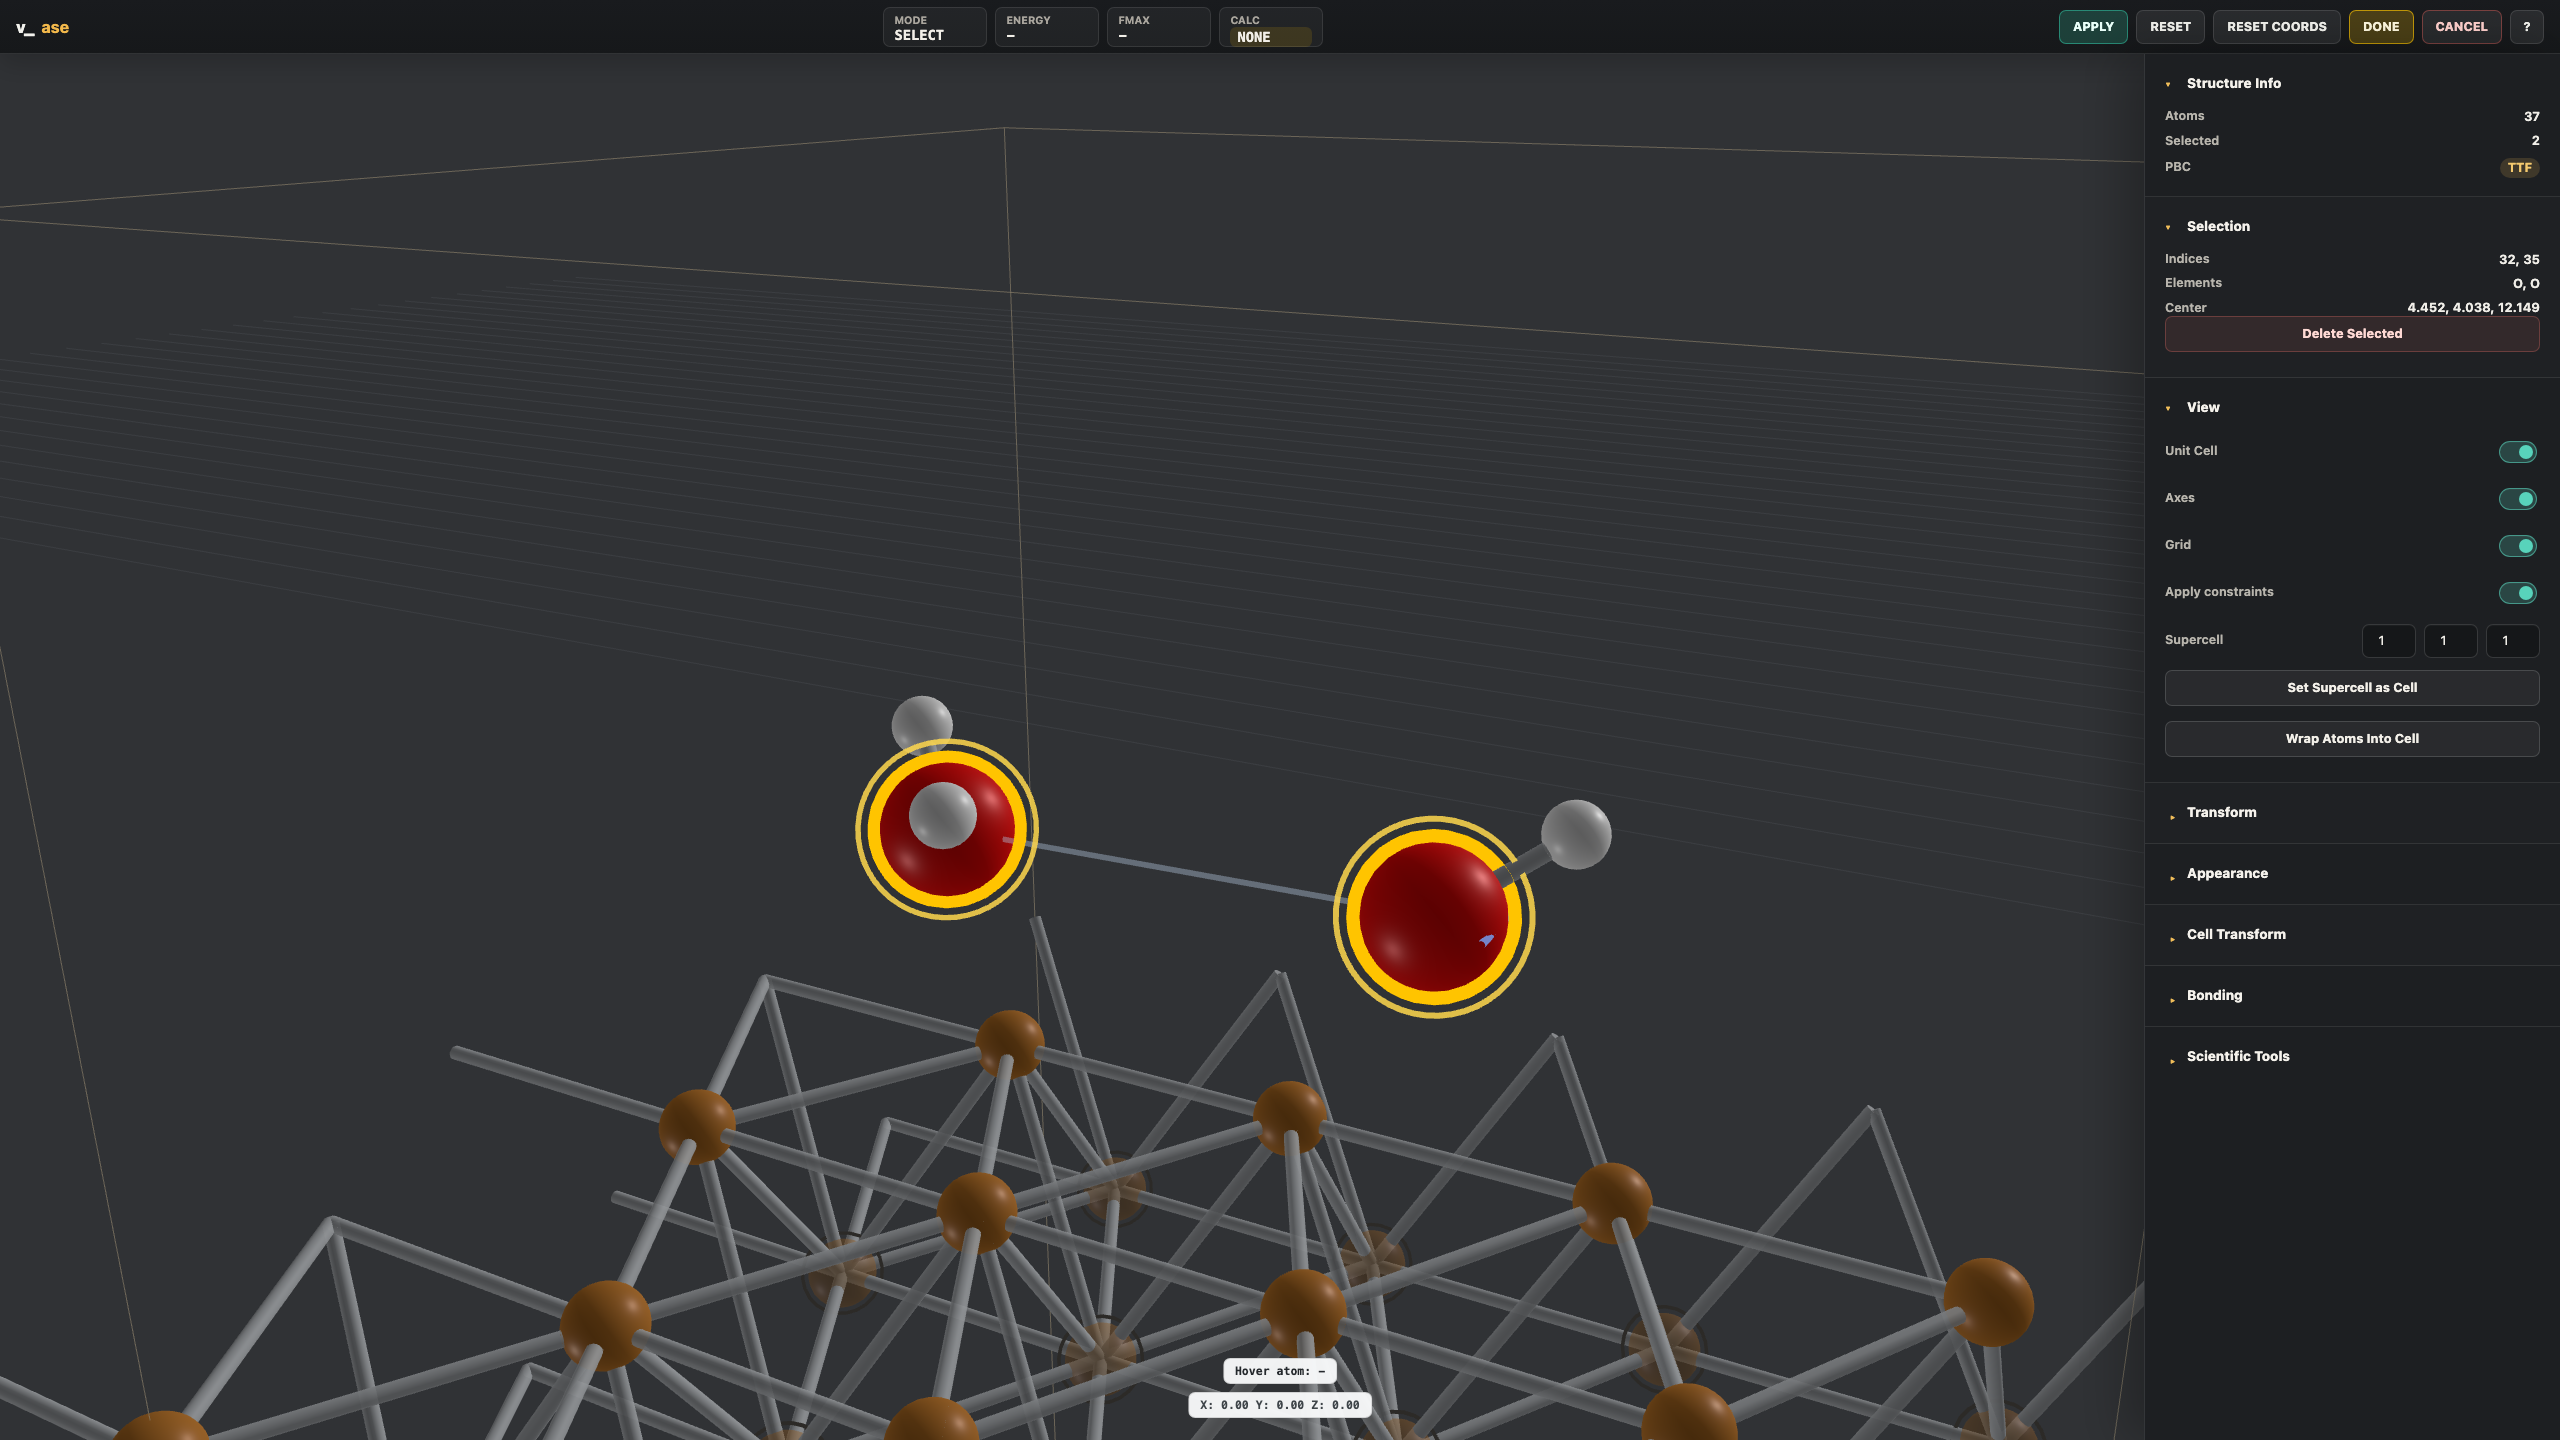
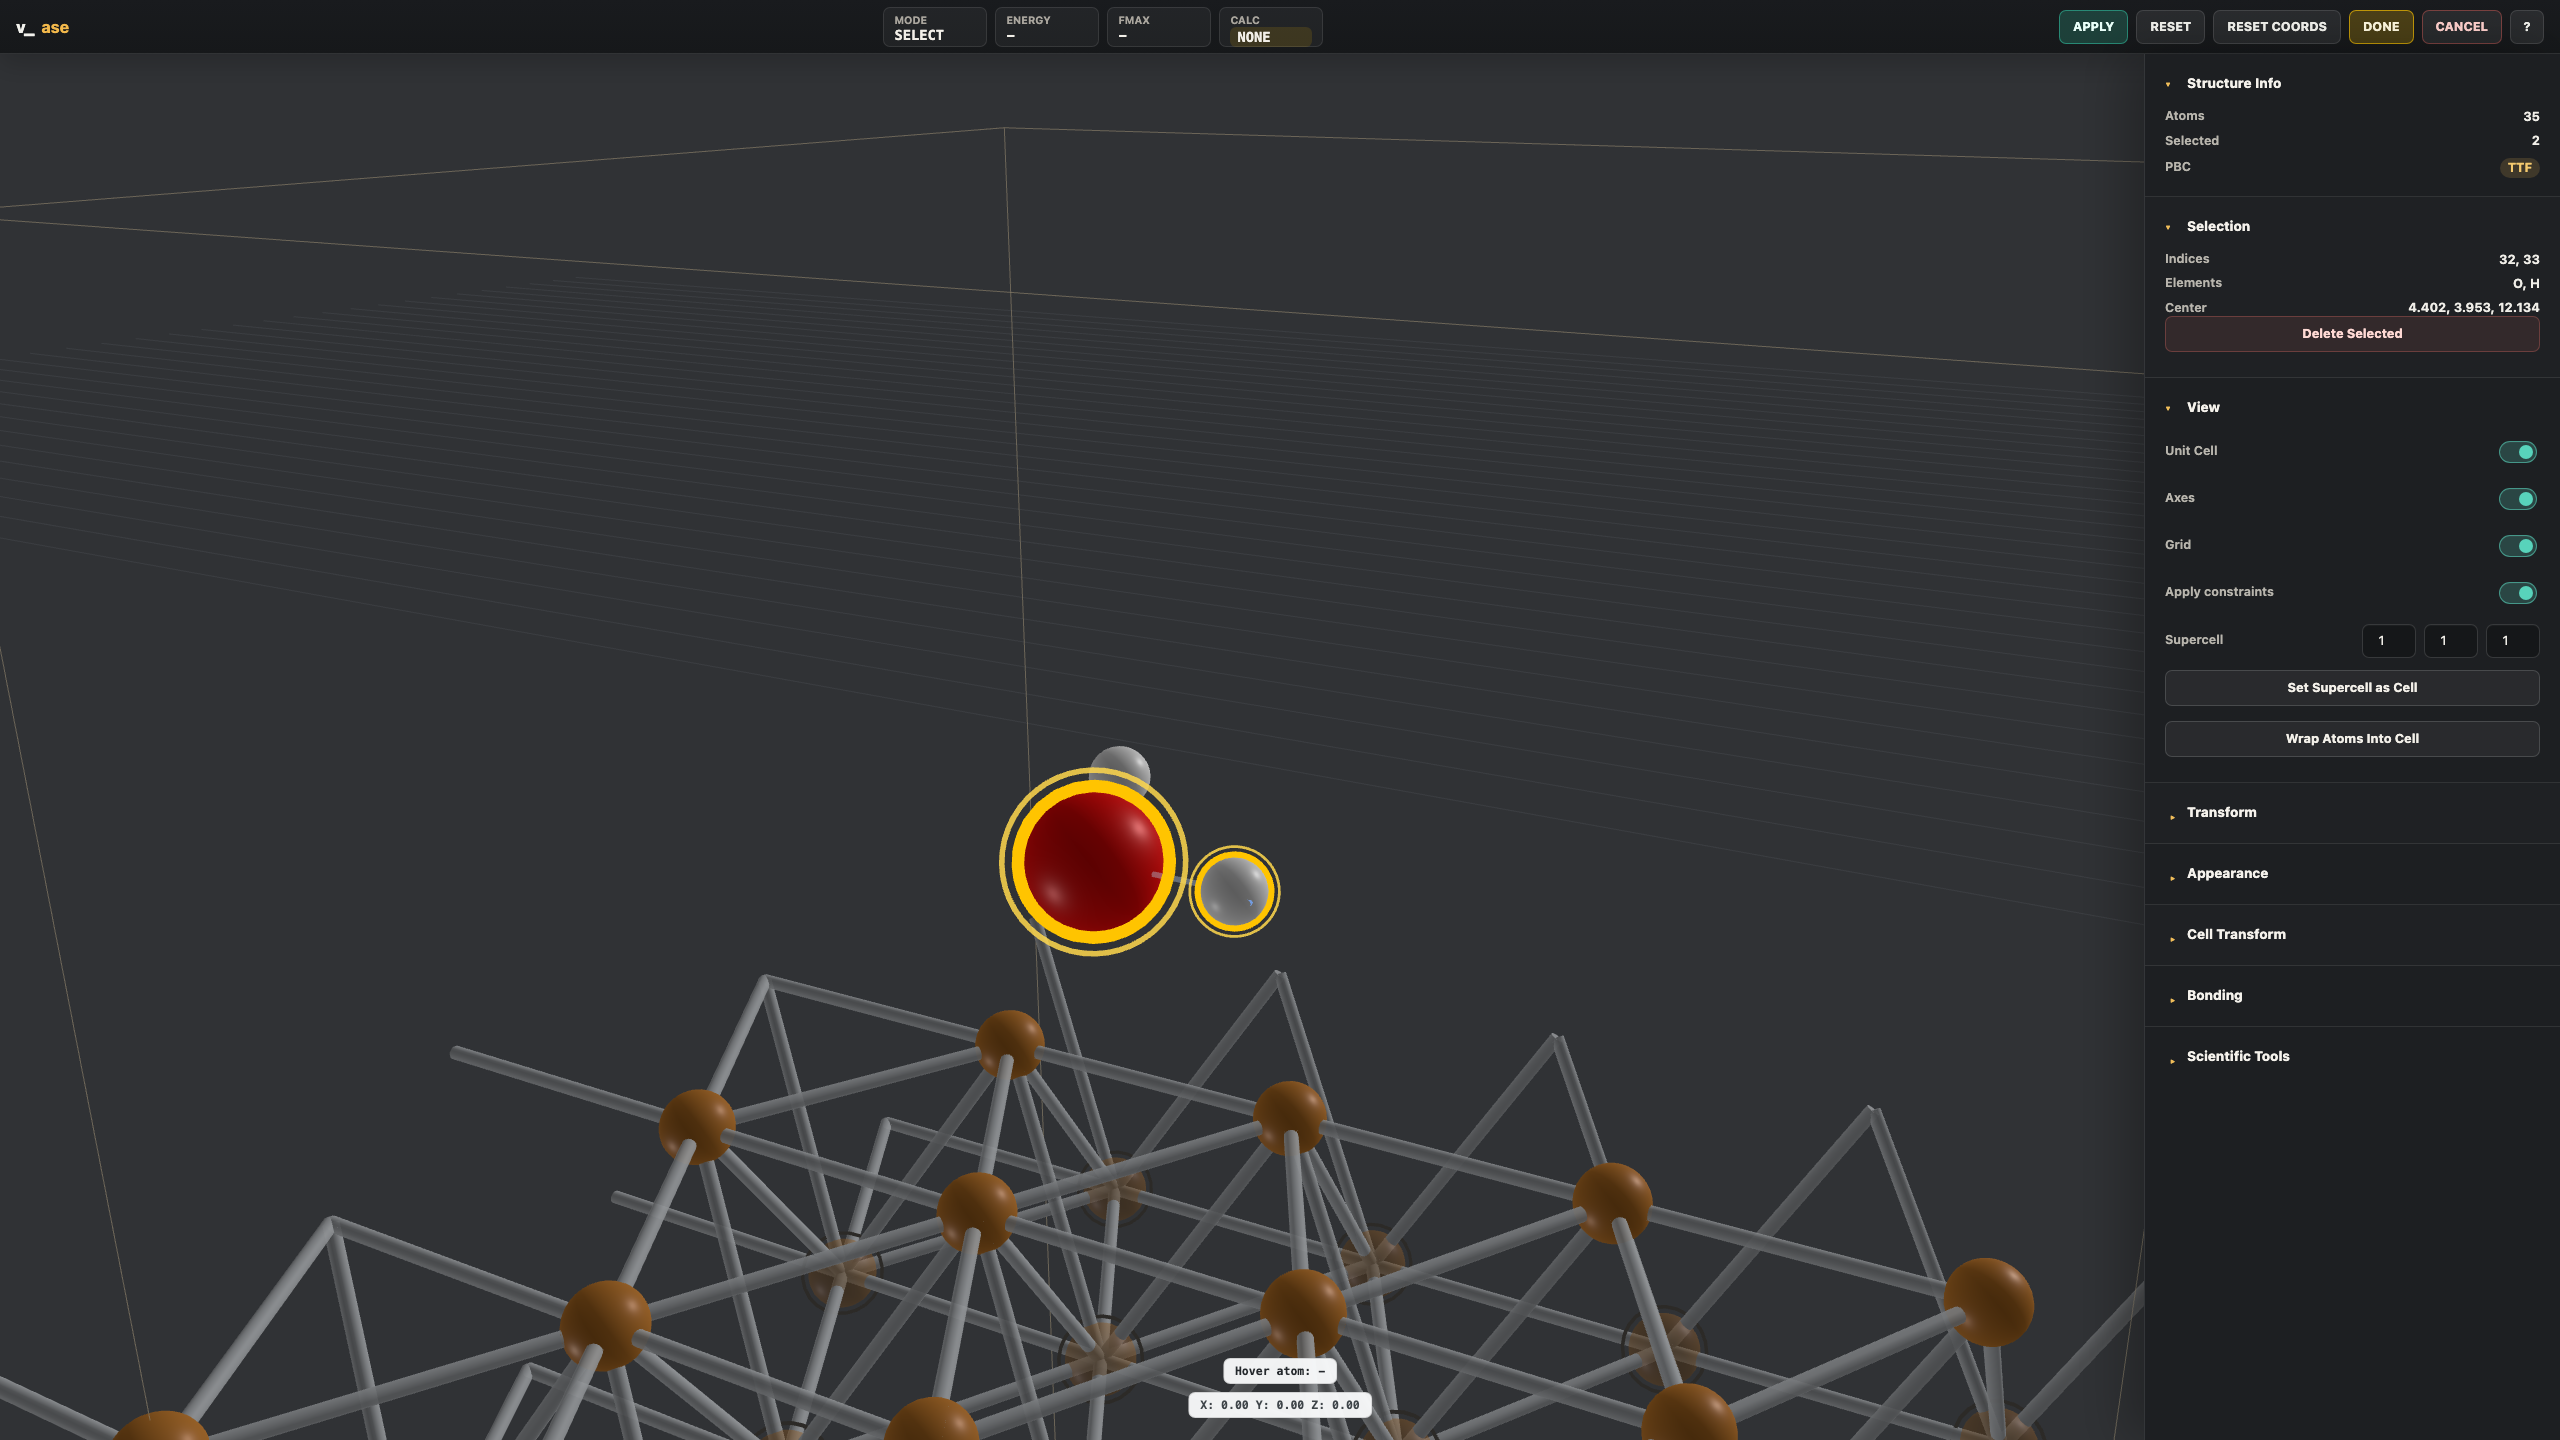
Refine Hookean and FixedPlane README examples

Changed region(s): [[0.3125, 0.4688, 0.6562, 0.7188]]

diff --git a/v_ase/static/renderer.js b/v_ase/static/renderer.js
@@ -257,12 +257,21 @@ export class ASERenderer {
                 color: 0x82f8df,
                 transparent: true,
                 opacity: 0.58,
+                depthTest: false,
                 depthWrite: false
             }),
             planeTrack: new THREE.MeshBasicMaterial({
                 color: 0xffd35a,
                 transparent: true,
                 opacity: 0.92,
+                depthTest: false,
+                depthWrite: false
+            }),
+            planeAxis: new THREE.MeshBasicMaterial({
+                color: 0x7fffe4,
+                transparent: true,
+                opacity: 0.82,
+                depthTest: false,
                 depthWrite: false
             }),
             hookean: new THREE.MeshBasicMaterial({
@@ -1012,7 +1021,7 @@ export class ASERenderer {
         this.constraintGuideGroup.add(group);
     }
 
-    fixedPlaneGridGeometry(size = 3.6, divisions = 4) {
+    fixedPlaneGridGeometry(size = 120, divisions = 4) {
         const half = size / 2;
         const step = size / divisions;
         const points = [];
@@ -1021,12 +1030,6 @@ export class ASERenderer {
             points.push(-half, v, 0, half, v, 0);
             points.push(v, -half, 0, v, half, 0);
         }
-        points.push(
-            -half, -half, 0, half, -half, 0,
-            half, -half, 0, half, half, 0,
-            half, half, 0, -half, half, 0,
-            -half, half, 0, -half, -half, 0
-        );
         const geometry = new THREE.BufferGeometry();
         geometry.setAttribute('position', new THREE.Float32BufferAttribute(points, 3));
         return geometry;
@@ -1036,7 +1039,7 @@ export class ASERenderer {
         const atom = this.atomMeshByIndex.get(index);
         if (!atom) return;
         const normal = this.normalizedVector(normalValues);
-        const planeOffset = this.atomVisualRadius(index) * 0.92 + 0.12;
+        const planeOffset = 0.04;
         const group = new THREE.Group();
         group.userData = {
             constraintGuideFor: index,
@@ -1046,15 +1049,28 @@ export class ASERenderer {
             planeOffset
         };
 
-        const patch = new THREE.Mesh(new THREE.PlaneGeometry(3.6, 3.6), this.constraintMaterials.plane);
-        patch.userData.sharedMaterial = true;
-        patch.renderOrder = 18;
-        group.add(patch);
-
-        const grid = new THREE.LineSegments(this.fixedPlaneGridGeometry(3.6, 4), this.constraintMaterials.planeGrid);
+        const grid = new THREE.LineSegments(this.fixedPlaneGridGeometry(), this.constraintMaterials.planeGrid);
         grid.userData.sharedMaterial = true;
-        grid.renderOrder = 19;
+        grid.renderOrder = 18;
         group.add(grid);
+
+        const axisA = new THREE.Mesh(new THREE.BufferGeometry(), this.constraintMaterials.planeAxis);
+        axisA.userData = { sharedMaterial: true, planeAxis: true };
+        this.setLinePoints(axisA, [
+            new THREE.Vector3(-60, 0, 0),
+            new THREE.Vector3(60, 0, 0)
+        ], 'planeAxisASignature', 0.012);
+        axisA.renderOrder = 19;
+        group.add(axisA);
+
+        const axisB = new THREE.Mesh(new THREE.BufferGeometry(), this.constraintMaterials.planeAxis);
+        axisB.userData = { sharedMaterial: true, planeAxis: true };
+        this.setLinePoints(axisB, [
+            new THREE.Vector3(0, -60, 0),
+            new THREE.Vector3(0, 60, 0)
+        ], 'planeAxisBSignature', 0.012);
+        axisB.renderOrder = 19;
+        group.add(axisB);
 
         const trail = new THREE.Mesh(new THREE.BufferGeometry(), this.constraintMaterials.planeTrack);
         trail.userData = { sharedMaterial: true, planeTrail: true };

diff --git a/scripts/capture_readme_screenshots.py b/scripts/capture_readme_screenshots.py
@@ -228,25 +228,23 @@ def make_hookean_surface_scene() -> tuple[Atoms, dict[str, int]]:
     center = np.mean(positions, axis=0)
     x0, y0 = float(center[0]), float(center[1])
 
-    ads_symbols = ["O", "H", "H", "O", "H"]
+    ads_symbols = ["O", "H", "H"]
     ads_positions = [
-        [x0 - 1.65, y0 - 0.08, top_z + 3.05],
-        [x0 - 2.23, y0 + 0.46, top_z + 3.48],
-        [x0 - 1.20, y0 - 0.70, top_z + 3.43],
-        [x0 + 1.62, y0 + 0.05, top_z + 3.08],
-        [x0 + 2.24, y0 + 0.60, top_z + 3.50],
+        [x0 - 0.55, y0 - 0.10, top_z + 3.05],
+        [x0 + 0.42, y0 - 0.10, top_z + 3.05],
+        [x0 - 0.92, y0 + 0.78, top_z + 3.25],
     ]
     atoms = slab + Atoms(ads_symbols, positions=ads_positions)
     atoms.pbc = [True, True, False]
-    left_o = len(slab)
-    right_o = len(slab) + 3
+    oxygen = len(slab)
+    constrained_h = len(slab) + 1
     bottom = [i for i, p in enumerate(positions) if p[2] < top_z - 0.5]
     atoms.set_constraint([
         FixAtoms(indices=bottom),
-        Hookean(left_o, right_o, rt=3.65, k=5.0),
+        Hookean(oxygen, constrained_h, rt=1.12, k=12.0),
     ])
-    atoms.info["readme_scene"] = "cu111_hookean_water_pair"
-    return atoms, {"left_o": left_o, "right_o": right_o}
+    atoms.info["readme_scene"] = "cu111_hookean_oh_bond"
+    return atoms, {"oxygen": oxygen, "hydrogen": constrained_h}
 
 
 def make_ferrocene_scene() -> tuple[Atoms, dict[str, list[int]]]:
@@ -424,17 +422,20 @@ def main() -> int:
                 "showBonds": True,
                 "showGrid": True
             })
-            set_selection(page, [hidx["left_o"], hidx["right_o"]])
+            set_selection(page, [hidx["oxygen"], hidx["hydrogen"]])
             open_panels(page, ["structure-info", "selection", "view"])
             settle_view(page, target=[5.0, 4.3, 13.1], position=[10.6, -6.1, 17.0], fov=37)
             page.screenshot(path=ASSET_DIR / "readme_hookean.png")
             base = hookean_atoms.get_positions()
-            start = base[hidx["right_o"]].copy()
-            end = start + np.array([1.55, 0.0, 0.0])
+            oxygen_pos = base[hidx["oxygen"]].copy()
+            start = base[hidx["hydrogen"]].copy()
+            direction = start - oxygen_pos
+            direction /= np.linalg.norm(direction)
+            end = oxygen_pos + direction * 1.62
             capture_animation(
                 page,
                 ASSET_DIR / "readme_hookean.gif",
-                hookean_frames(base, hidx["right_o"], start, end),
+                hookean_frames(base, hidx["hydrogen"], start, end),
             )
             page.close()
             editor.close()

diff --git a/v_ase/__init__.py b/v_ase/__init__.py
@@ -7,6 +7,6 @@ from v_ase.viewer import ASEEditor, view, view_edit, view_file
 try:
     __version__ = version("v_ase-gui")
 except PackageNotFoundError:
-    __version__ = "0.0.5"
+    __version__ = "0.0.6"
 
 __all__ = ["ASEEditor", "view", "view_edit", "view_file", "__version__"]

diff --git a/v_ase/cli.py b/v_ase/cli.py
@@ -18,7 +18,7 @@ def package_version() -> str:
     try:
         return version("v_ase-gui")
     except PackageNotFoundError:
-        return "0.0.5"
+        return "0.0.6"
 
 
 def build_parser() -> argparse.ArgumentParser:

diff --git a/README.md b/README.md
@@ -4,14 +4,13 @@
 [![Python versions](https://img.shields.io/pypi/pyversions/v_ase-gui.svg)](https://pypi.python.org/pypi/v_ase-gui/)
 [![License](https://img.shields.io/badge/license-MIT-green.svg)](LICENSE)
 
-`v_ase` is built around convenience and flexibility. It keeps the
-low-friction workflow of `ase gui`: open ASE-readable structures and
-trajectories directly from a terminal or Python session. It adds the flexibility
-of a Blender-like 3D visualizer: select, move, rotate, copy, delete, wrap, and
-export atoms directly in an interactive browser viewport.
-
-The goal is to put the practical convenience of ASE and the hands-on flexibility
-of a 3D molecular editor in the same tool.
+`v_ase` was developed for researchers who want the convenience of ASE and the
+flexibility of Blender in one atomistic workflow. ASE is convenient because
+structures and trajectories can be opened directly from Python or the terminal.
+Blender is flexible because objects can be selected, moved, rotated, inspected,
+and edited in a real 3D scene. `v_ase` combines those two strengths: an
+`ase gui`-style entry point for scientific files, plus direct 3D editing for
+atomic structures.
 
 It is intended to replace:
 
@@ -161,7 +160,9 @@ the allowed line or plane and the backend commit uses
 `Hookean` constraints are drawn with physical meaning. The `rt` threshold is
 placed in Angstroms along the constrained direction. Below the threshold the
 spring is inactive and shows slack. Beyond the threshold the latch engages and
-the spring becomes active.
+the spring becomes active. The example below uses a surface O-H stretch: the
+constraint is quiet near the normal bond length and activates only when the bond
+is pulled beyond the cutoff.
 
 ![Hookean threshold-aware spring](https://raw.githubusercontent.com/lgyEthan/v_ase/main/docs/assets/readme_hookean.png)
 